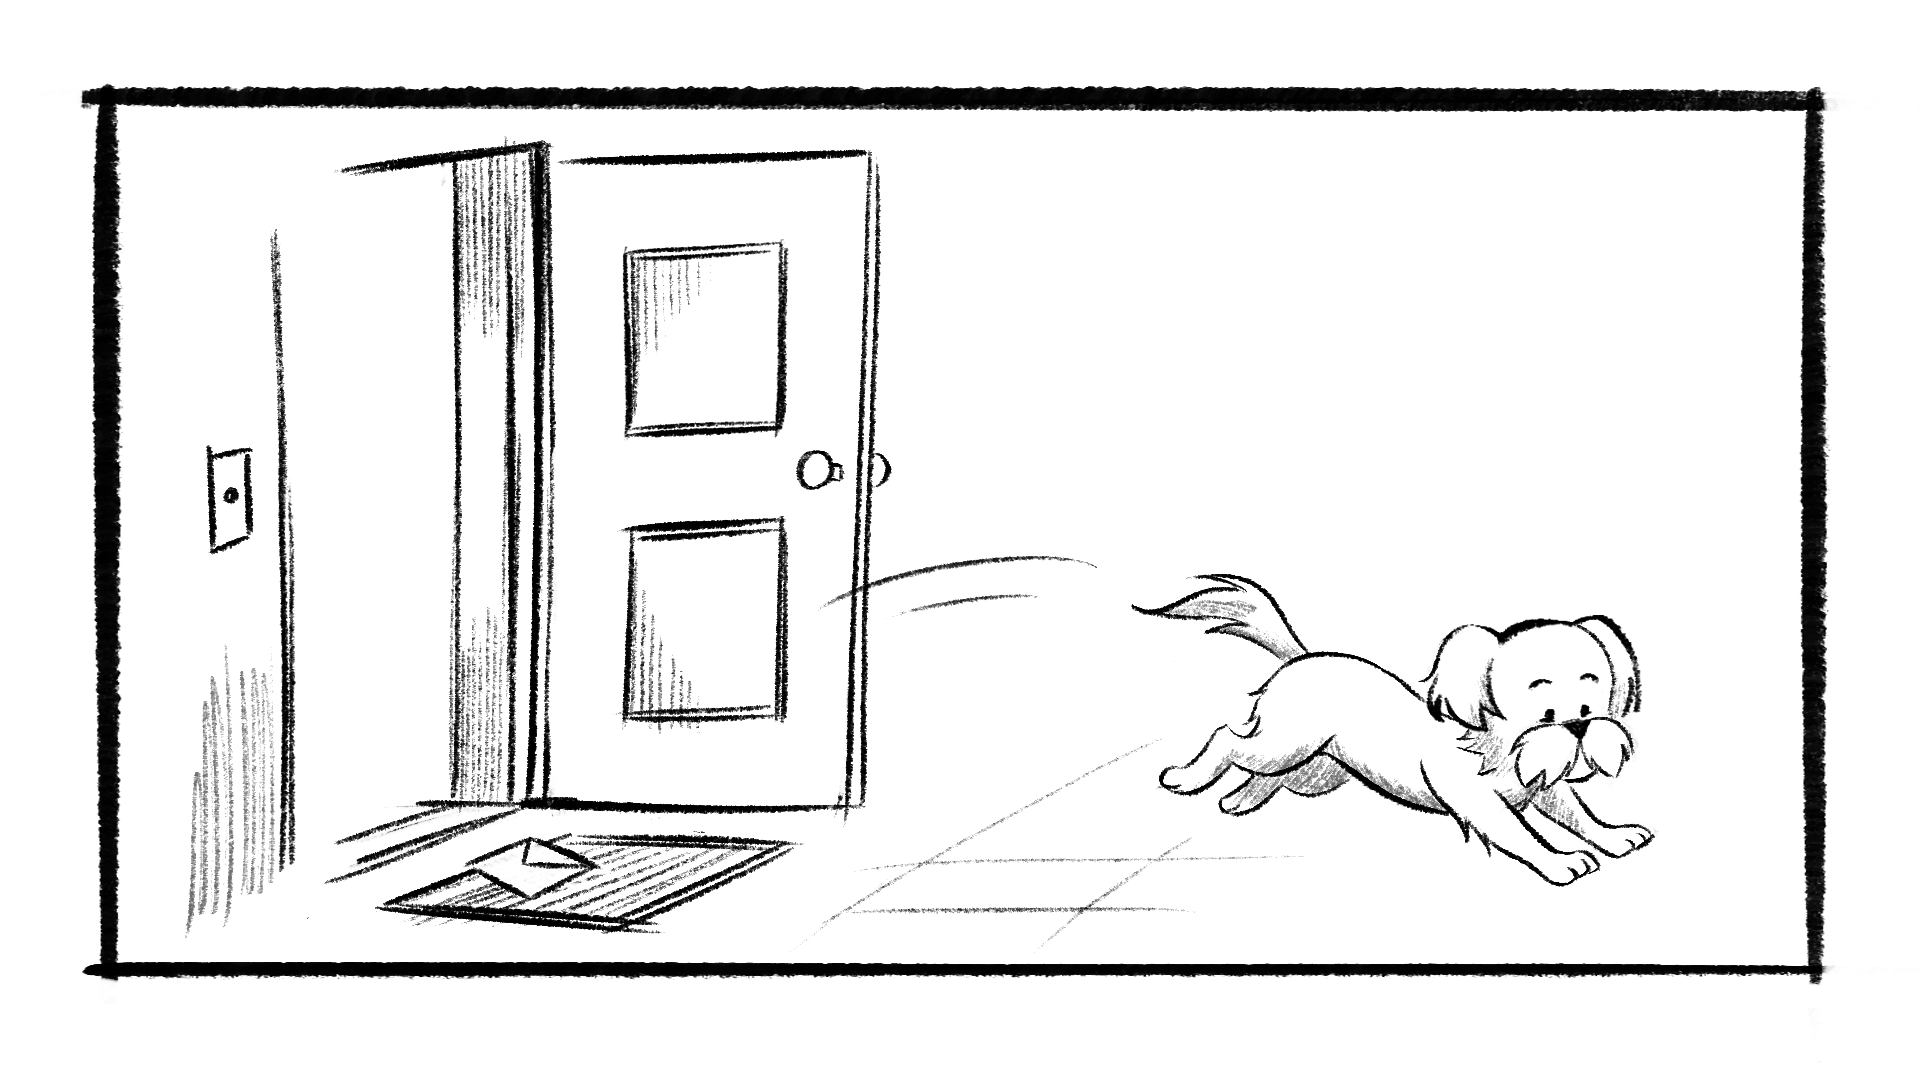
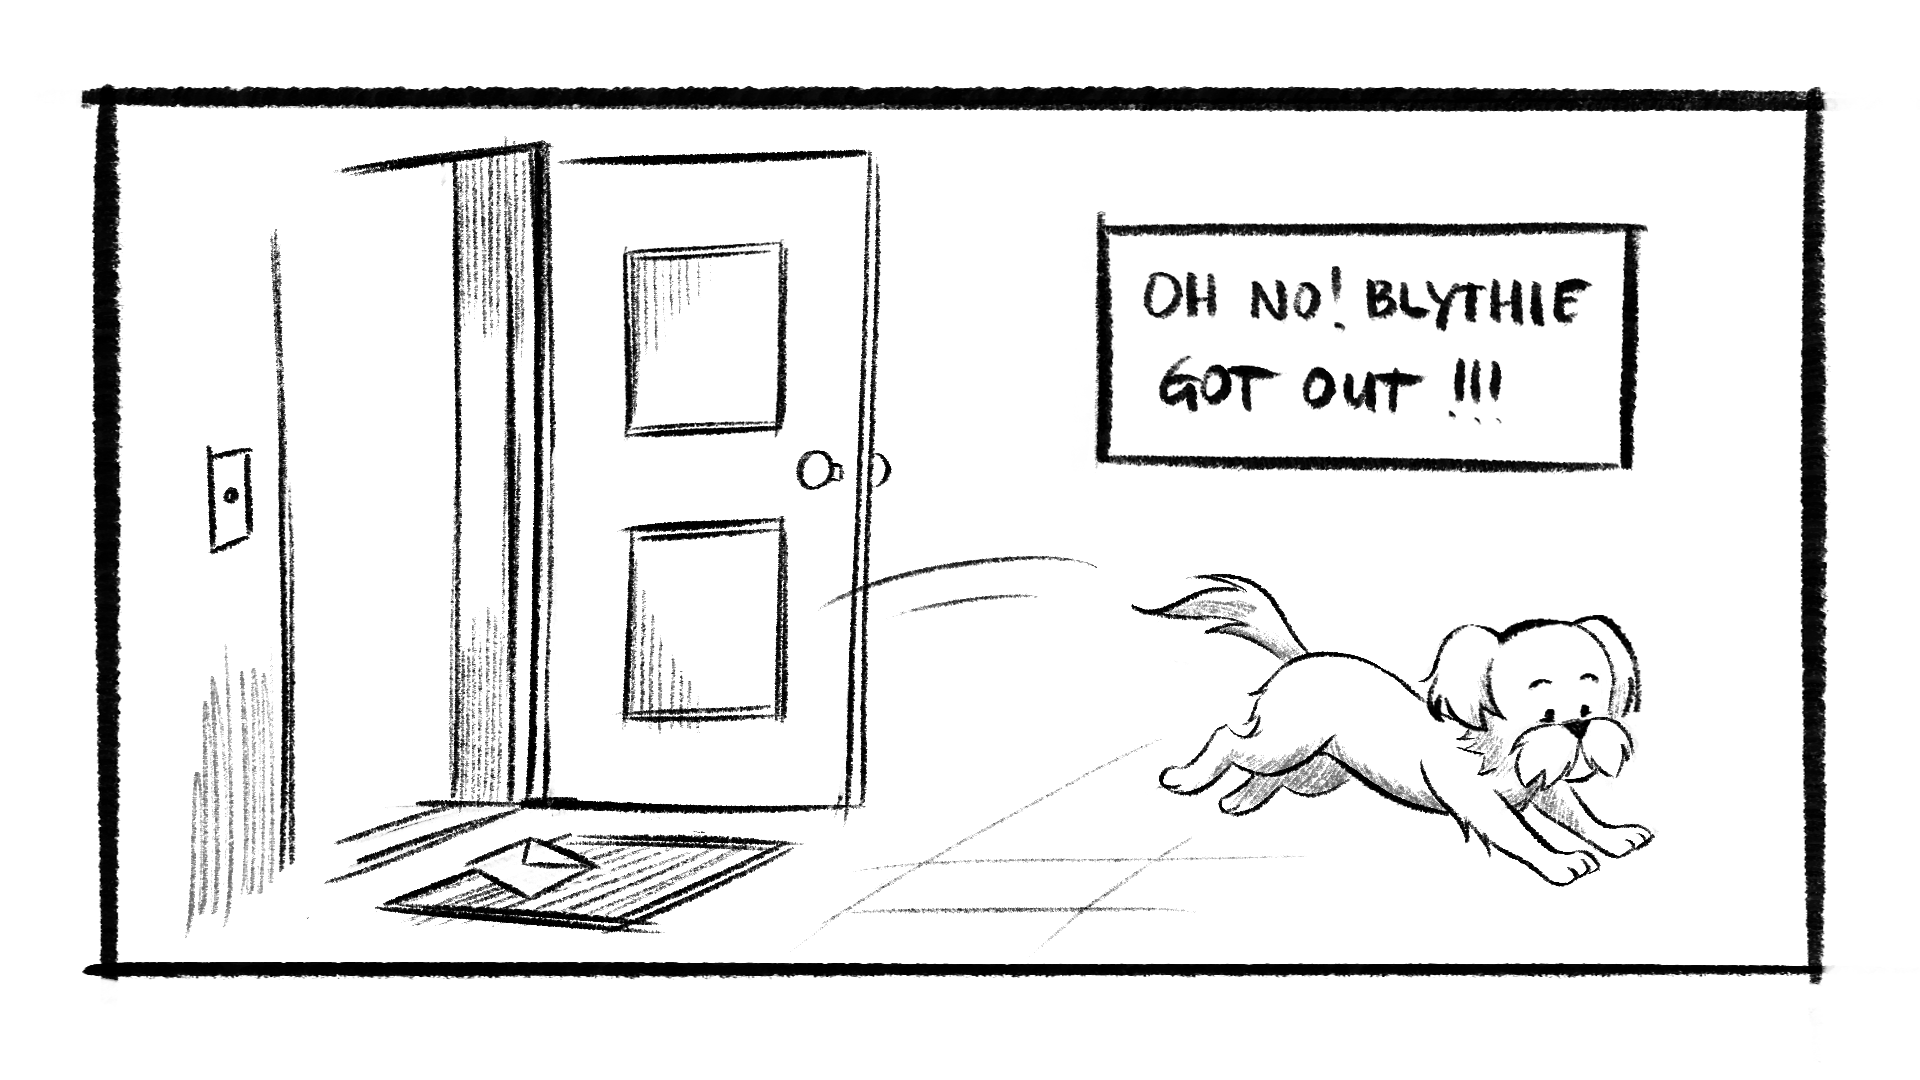
update

Changed region(s): [[0.5625, 0.1833, 0.875, 0.4583]]

diff --git a/tutorials/5-final-project/css/style.css b/tutorials/5-final-project/css/style.css
@@ -191,39 +191,6 @@ button {
 
 }
 
-.speech-bubble {
-
-    position: absolute;
-    transform: translate(-50%, -50%);
-    max-width: 1000px;
-    padding: 10px 120px;
-    background: rgba(255, 255, 255, 0.96);
-    color: #111;
-    font-size: 2.5rem;
-    line-height: 1.4;
-    font-weight: 700;
-    border-radius: 30px;
-    box-shadow: 0 7px 5px 5px rgba(0, 0, 0, 0.25);
-    text-align: center;
-    z-index: 10;
-
-}
-
-.speech-bubble::after {
-
-    content: '';
-    position: absolute;
-    left: 50%;
-    bottom: -16px;
-    transform: translateX(-50%);
-    width: 0;
-    height: 0;
-    border-left: 12px solid transparent;
-    border-right: 12px solid transparent;
-    border-top: 16px solid rgba(255, 255, 255, 0.96);
-
-}
-
 .arrow-button {
     position: absolute;
     left: 92.2%;

diff --git a/tutorials/5-final-project/index3.html b/tutorials/5-final-project/index3.html
@@ -11,9 +11,7 @@
 <main>
     <section id="scene3" class="single-panel-container" aria-label="Blythie scene">
         <img src="media/panel4.png" alt="comic panel 4" class="full-panel" />
-        <div class="speech-bubble" style="left: 72%; top: 29.5%;">
-            OH NO! BLYTHIE GOT OUT!
-        </div>
+       
     </section>
     <script>
         document.addEventListener('DOMContentLoaded', () => {
